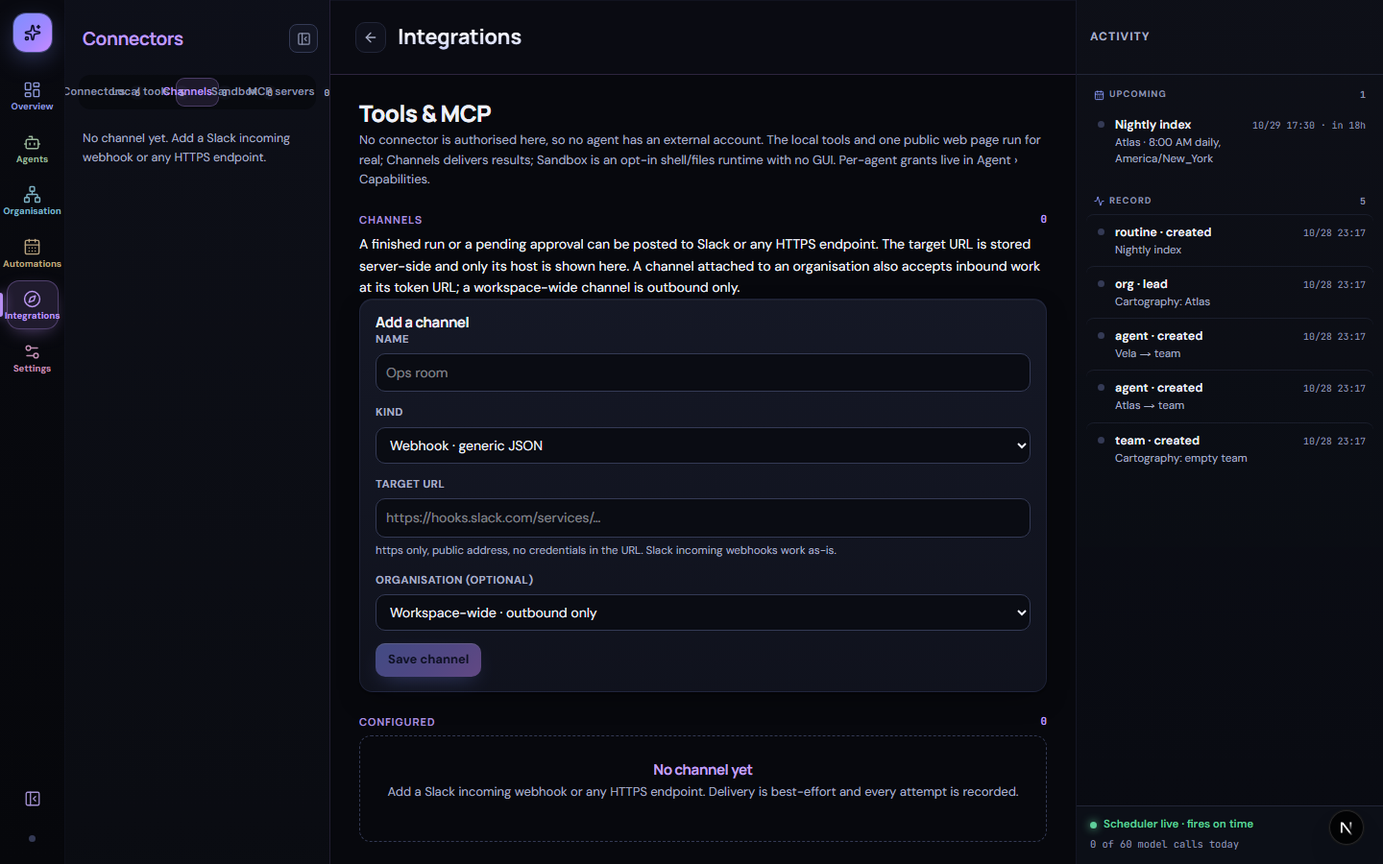
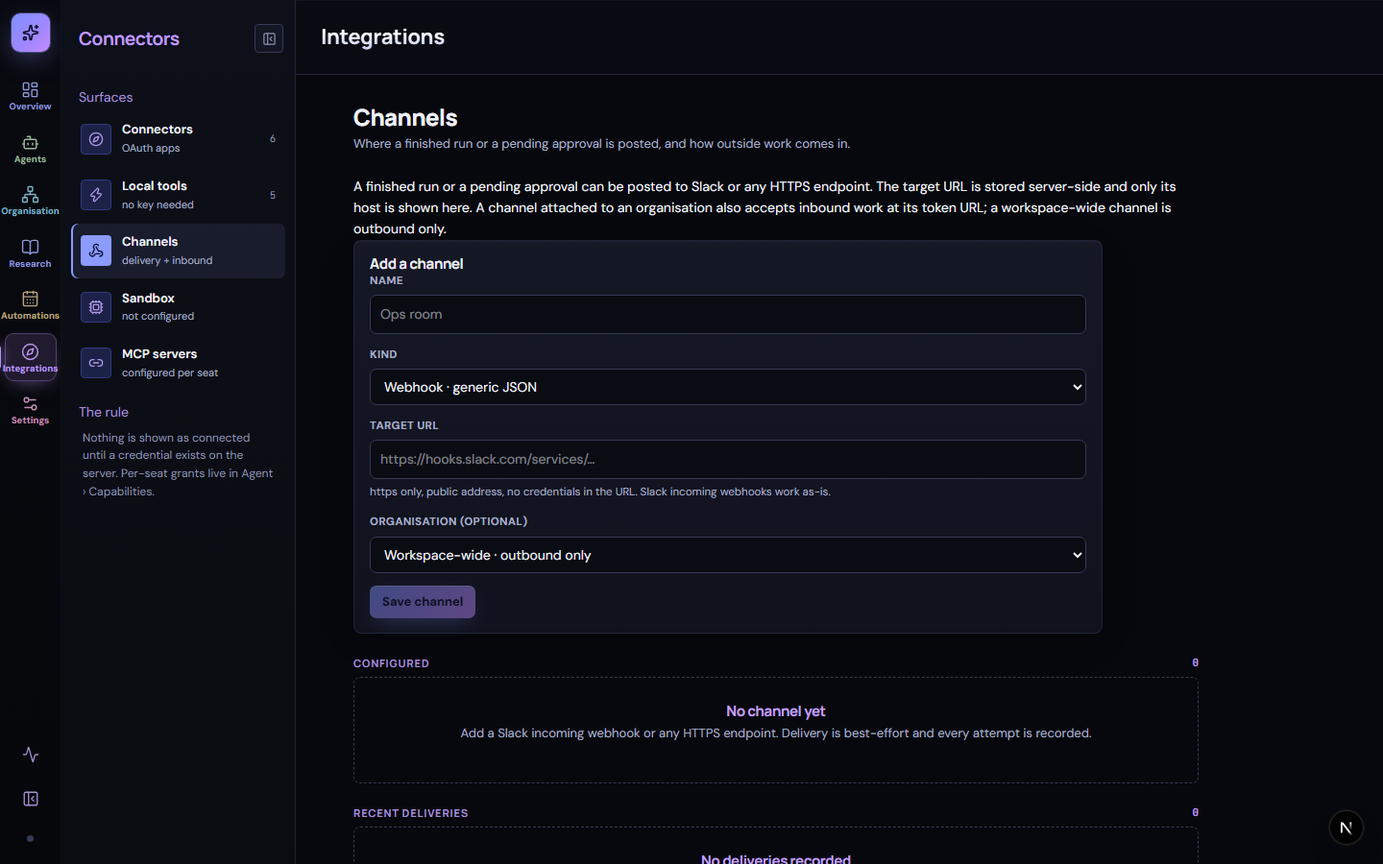
feat(ui): structural redesign of every room, not a token repaint
The bench read as broken: a dead void under sparse threads, tabs wrapping to
two rows, one shared glyph on every seat, rainbow 9.5px rail labels, and the
same room title printed three times. This pass fixes the layout and the
duplicated marks rather than repainting hue.

- connectors become one hairline list; local tools and runs keep row rhythm
- tabs forced to a single row; rail neutral with one room-hue mark per room
- Research gains its own mint so no two rooms share a rail colour
- gradient text-clip and the retired kicker device removed from headings
- Integrations panel retitled Surfaces; Automations/Settings/Research pane
  heads no longer repeat the sheet-bar room title
- FaceIcon falls back to a name monogram instead of a shared Sparkles
- sparse threads rise from the composer so the void is headroom, not a hole
- contrast, radii (6/8/12), columns (76/252/fluid/312) and gutter retuned

identity.test.ts still parses the live stylesheet and passes: 284/284 tests,
tsc --noEmit, next typegen, production build and /api/health all green.
Before/after captures for every room live in .impeccable/shots; DESIGN.md and
D-45 re-synced to the built world.

diff --git a/src/app/globals.css b/src/app/globals.css
@@ -14,14 +14,14 @@
   --raised: #1e2232;    /* hover, selected, tabs track */
   --sunken: #0a0c13;    /* inputs, code, recessed wells */
 
-  /* text */
-  --ink: #eef0f8;
-  --ink-2: #a8aec6;
-  --ink-3: #8b92ad;     /* tuned to clear 4.5:1 on --raised, the lightest surface it lands on */
+  /* text — lifted for legibility on the graphite ramp */
+  --ink: #f4f6fc;
+  --ink-2: #bfc7d8;
+  --ink-3: #9ba4bb;     /* clears 4.5:1 on --raised, the lightest surface it lands on */
 
-  /* hairlines */
-  --rule: #222638;
-  --rule-2: #343a55;
+  /* hairlines — visible structure, not invisible seams */
+  --rule: #2a3040;
+  --rule-2: #3d4560;
 
   /* interaction — one accent, with its own dark-ground family */
   --azure: #8b9bff;
@@ -42,9 +42,9 @@
   /* the code well: the only recessed surface, deliberately darker than everything */
   --code-bg: #080a10; --code-line: #1f2335; --code-text: #dfe6ee; --code-lang: #7f8b99;
 
-  --r-sm: 4px; --r: 7px; --r-lg: 10px;
-  --rail-w: 64px; --panelw: 244px; --boardw: 300px;
-  --measure: 80ch; --gutter: 40px;
+  --r-sm: 6px; --r: 8px; --r-lg: 12px;
+  --rail-w: 76px; --panelw: 252px; --boardw: 312px;
+  --measure: 78ch; --gutter: 32px;
   --shadow-lift: 0 30px 80px rgba(2, 3, 12, .7), 0 0 0 1px rgb(var(--azure-rgb) / .08);
   --ease: cubic-bezier(.22, .68, .31, 1);
 }
@@ -88,11 +88,11 @@ textarea, input { caret-color: var(--azure); }
 .rail-logo:hover { transform: scale(1.05); background: var(--azure-bright); }
 .rail-items { display: flex; flex-direction: column; gap: 4px; flex: 1 1 auto; width: 100%; align-items: center; overflow-y: auto; scrollbar-width: none; }
 .rail-items::-webkit-scrollbar { display: none; }
-.rail-btn { position: relative; display: flex; flex-direction: column; align-items: center; justify-content: center; gap: 4px; width: 54px; padding: 10px 0 8px; border-radius: var(--r); color: var(--ink-3); transition: background .15s var(--ease), color .15s var(--ease); }
-.rail-btn:hover { background: #171b2a; color: var(--ink); }
-.rail-btn.on { background: var(--azure-wash); color: var(--azure-bright); }
-.rail-btn.on::before { content: ""; position: absolute; left: -7px; top: 13px; bottom: 13px; width: 3px; border-radius: 0 3px 3px 0; background: var(--azure); }
-.rail-label { font-size: 9.5px; font-weight: 700; line-height: 1; }
+.rail-btn { position: relative; display: flex; flex-direction: column; align-items: center; justify-content: center; gap: 5px; width: 64px; padding: 10px 0 9px; border-radius: var(--r); color: var(--ink-3); transition: background .15s var(--ease), color .15s var(--ease); }
+.rail-btn:hover { background: var(--raised); color: var(--ink); }
+.rail-btn.on { background: var(--azure-wash); color: var(--ink); }
+.rail-btn.on::before { content: ""; position: absolute; left: -6px; top: 12px; bottom: 12px; width: 3px; border-radius: 0 3px 3px 0; background: var(--sec, var(--azure)); }
+.rail-label { font-size: 10.5px; font-weight: 600; line-height: 1; letter-spacing: .01em; color: inherit; }
 .rail-badge { position: absolute; top: 4px; right: 6px; min-width: 16px; height: 16px; padding: 0 4px; border-radius: 99px; background: var(--waiting); color: #17140d; font-style: normal; font-size: 9px; font-weight: 800; display: grid; place-items: center; }
 .rail-foot { display: flex; flex-direction: column; align-items: center; gap: 6px; width: 100%; }
 .rail-foot .rail-btn { padding: 11px 0; }
@@ -109,8 +109,8 @@ textarea, input { caret-color: var(--azure); }
 .sp-icon { display: grid; place-items: center; width: 30px; height: 30px; flex: 0 0 auto; border-radius: var(--r-sm); color: var(--ink-2); border: 1px solid var(--rule); }
 .sp-icon:hover { background: var(--raised); color: var(--ink); border-color: var(--rule-2); }
 .sp-collapse { border-color: transparent; color: var(--ink-3); }
-.sp-tabs { display: flex; flex-wrap: wrap; gap: 3px; margin: 0 12px 10px; padding: 3px; border-radius: var(--r); background: var(--sunken); flex: 0 0 auto; }
-.sp-tabs button { flex: 1 1 auto; min-width: 72px; display: inline-flex; align-items: center; justify-content: center; gap: 5px; padding: 6px 8px; border-radius: var(--r-sm); font-size: 11.5px; font-weight: 600; color: var(--ink-3); white-space: nowrap; }
+.sp-tabs { display: flex; flex-wrap: nowrap; gap: 3px; margin: 0 12px 10px; padding: 3px; border-radius: var(--r); background: var(--sunken); flex: 0 0 auto; }
+.sp-tabs button { flex: 1 1 0; min-width: 0; display: inline-flex; align-items: center; justify-content: center; gap: 5px; padding: 6px 6px; border-radius: var(--r-sm); font-size: 11.5px; font-weight: 600; color: var(--ink-3); white-space: nowrap; overflow: hidden; }
 .sp-tabs button:hover { color: var(--ink); }
 .sp-tabs button.on { background: var(--raised); color: var(--ink); }
 .sp-tabs span { font-family: var(--font-mono), monospace; font-size: 9.5px; padding: 0 5px; border-radius: 99px; background: var(--sheet); color: var(--ink-2); }
@@ -204,9 +204,13 @@ button.node:hover { background: #1a1e2d; }
 .fact.live .fact-dot { background: var(--ran); }
 
 .sheet-body { flex: 1 1 auto; min-height: 0; overflow-y: auto; position: relative; background: var(--sheet); }
+/* A sparse thread rises from the composer instead of leaving a dead void under two messages.
+   Scoped with :has so pane/overview bodies keep normal block flow. */
+.sheet-body:has(> .thread) { display: flex; flex-direction: column; }
+.sheet-body > .thread { margin-top: auto; flex-shrink: 0; }
 
 /* thread */
-.thread { max-width: 960px; margin: 0 auto; padding: 22px var(--gutter) 8px calc(var(--gutter) + 6px); }
+.thread { max-width: 1040px; margin: 0 auto; padding: 22px var(--gutter) 8px calc(var(--gutter) + 6px); }
 .thread > div { display: contents; }
 .rule-day { display: flex; align-items: center; gap: 12px; margin: 24px 0 6px; }
 .rule-day span { font-size: 10.5px; font-weight: 700; letter-spacing: .08em; text-transform: uppercase; color: var(--ink-3); }
@@ -219,6 +223,7 @@ button.node:hover { background: #1a1e2d; }
 .entry + .entry { border-top: 1px solid var(--rule); }
 .entry-main { min-width: 0; }
 .entry-face { display: grid; place-items: center; width: 30px; height: 30px; border-radius: var(--r-sm); border: 1px solid var(--rule-2); background: var(--card); color: var(--ink-2); flex: 0 0 auto; }
+.face-mono { font-family: var(--font-display), sans-serif; font-weight: 800; line-height: 1; letter-spacing: -.02em; }
 .entry-assistant .entry-face { background: var(--h-wash); border-color: var(--h-line); color: var(--h-ink); }
 .entry-head { display: flex; align-items: baseline; flex-wrap: wrap; gap: 8px; margin-bottom: 2px; }
 .entry-head strong { font-size: 13px; font-weight: 700; }
@@ -421,8 +426,8 @@ button.bd-row:hover { background: #1a1e2d; }
 .board-usage { font-size: 10.5px; color: var(--ink-3); }
 
 /* ── panes ─────────────────────────────────────────────────────────────── */
-.pane { max-width: 1080px; margin: 0 auto; padding: 30px 34px 48px; }
-.pane .stack { max-width: 780px; }
+.pane { max-width: 1240px; margin: 0 auto; padding: 30px 34px 48px; }
+.pane .stack { max-width: 860px; }
 .org-strip { display: flex; flex-wrap: wrap; gap: 6px 22px; margin: 4px 0 18px; padding: 11px 2px 12px; border-top: 1px solid var(--rule); border-bottom: 1px solid var(--rule); color: var(--ink-2); font-size: 12.5px; }
 .org-strip b { color: var(--ink); font-weight: 700; margin-right: 4px; }
 .pane-head { display: flex; align-items: flex-end; gap: 14px; margin-bottom: 22px; }
@@ -433,14 +438,17 @@ button.bd-row:hover { background: #1a1e2d; }
 .rows { border: 1px solid var(--rule); border-radius: var(--r); background: var(--card); overflow: hidden; }
 .pane-lede { max-width: 74ch; margin: 0 0 22px; font-size: 13px; line-height: 1.6; color: var(--ink-2); }
 .tool-surface { max-width: 880px; }
-.connector-grid { display: grid; grid-template-columns: repeat(auto-fill, minmax(300px, 1fr)); gap: 14px; }
-.connector-card { display: flex; flex-direction: column; gap: 10px; padding: 16px 18px 14px; border: 1px solid var(--rule); border-radius: var(--r); background: var(--card); }
-.connector-card header { display: flex; align-items: center; gap: 10px; }
-.connector-card h3 { margin: 0; font-size: 15px; }
-.connector-card header em { display: block; font-style: normal; font-size: 10.5px; letter-spacing: .08em; text-transform: uppercase; color: var(--ink-3); }
-.connector-card p { margin: 0; font-size: 13px; line-height: 1.55; color: var(--ink-2); }
-.connector-card footer { margin-top: auto; padding-top: 10px; border-top: 1px solid var(--rule); font-size: 12px; color: var(--ink-3); }
-.connector-card .chip { margin-left: auto; }
+.connector-grid { display: flex; flex-direction: column; border: 1px solid var(--rule); border-radius: var(--r); background: var(--card); overflow: hidden; }
+.connector-card { display: grid; grid-template-columns: 34px minmax(0, 1fr) auto; align-items: center; gap: 3px 14px; padding: 13px 16px; }
+.connector-card + .connector-card { border-top: 1px solid var(--rule); }
+.connector-card header { display: contents; }
+.connector-card .row-face { grid-column: 1; grid-row: 1 / span 2; align-self: center; width: 34px; height: 34px; }
+.connector-card header > div { grid-column: 2; grid-row: 1; display: flex; align-items: baseline; gap: 9px; min-width: 0; }
+.connector-card h3 { margin: 0; font-size: 14px; }
+.connector-card header em { font-style: normal; font-size: 10.5px; letter-spacing: .06em; text-transform: uppercase; color: var(--ink-3); }
+.connector-card p { margin: 0; font-size: 12.5px; line-height: 1.5; color: var(--ink-2); grid-column: 2; grid-row: 2; }
+.connector-card footer { display: none; }
+.connector-card .chip { grid-column: 3; grid-row: 1; margin-left: 0; }
 .row { display: flex; align-items: center; gap: 12px; width: 100%; text-align: left; padding: 12px 14px; }
 .row + .row { border-top: 1px solid var(--rule); }
 button.row:hover { background: #232842; }
@@ -712,13 +720,12 @@ body { background: var(--void); -webkit-font-smoothing: antialiased; text-render
 /* The stage breathes the open room's hue: --sec is set on .workbench, so each section's
    aurora is its own colour. Room paint marks where you are; buttons stay azure. */
 .workbench { background:
-  radial-gradient(1000px 560px at 78% -8%, color-mix(in srgb, var(--sec) 18%, rgb(var(--indigo-rgb) / .14)), transparent 62%),
-  radial-gradient(760px 520px at 4% 110%, color-mix(in srgb, var(--sec) 10%, rgb(var(--violet-rgb) / .11)), transparent 62%),
-  radial-gradient(560px 380px at 50% 46%, color-mix(in srgb, var(--sec) 6%, rgb(94, 200, 230 / .045)), transparent 70%),
+  radial-gradient(1000px 560px at 78% -8%, color-mix(in srgb, var(--sec) 9%, rgb(var(--indigo-rgb) / .07)), transparent 62%),
+  radial-gradient(760px 520px at 4% 110%, color-mix(in srgb, var(--sec) 5%, rgb(var(--violet-rgb) / .05)), transparent 62%),
   var(--sheet); }
 .sheet, .sheet-body { background: transparent; }
 .sheet-bar { background: rgba(12, 14, 21, .66); backdrop-filter: blur(18px) saturate(1.3); -webkit-backdrop-filter: blur(18px) saturate(1.3); border-bottom-color: rgb(var(--azure-rgb) / .12); box-shadow: inset 0 1px 0 rgb(var(--azure-rgb) / .06); position: relative; z-index: 2; }
-.sheet-bar h1, .ident-main h1 { background: linear-gradient(180deg, #fff 30%, #c6cdf5); -webkit-background-clip: text; background-clip: text; -webkit-text-fill-color: transparent; }
+.sheet-bar h1, .ident-main h1 { color: var(--ink); }
 .page-heading h1 { font-size: 22px; }
 
 /* rail */
@@ -850,7 +857,6 @@ button.row:hover, .row:hover { background: rgb(var(--azure-rgb) / .045); }
 .ao-hero.waiting { --tone: var(--waiting); --tone-wash: rgb(var(--waiting-rgb) / .14); border-color: var(--waiting-line); }
 .ao-hero.fault { --tone: var(--fault); --tone-wash: rgb(var(--fault-rgb) / .15); border-color: var(--fault-line); }
 .ao-hero-main { position: relative; flex: 1; min-width: 0; }
-.ao-kicker { display: block; font-size: 10px; font-weight: 800; letter-spacing: .14em; text-transform: uppercase; color: var(--tone, var(--ink-3)); margin-bottom: 4px; }
 .ao-hero h2 { font-size: 30px; font-weight: 800; letter-spacing: -.03em; margin-bottom: 6px; }
 .ao-hero p { margin: 0; max-width: 56ch; color: var(--ink-2); font-size: 14px; }
 .ao-hero-meta { display: flex; gap: 8px 18px; flex-wrap: wrap; margin-top: 12px; font-size: 12px; color: var(--ink-3); }
@@ -897,8 +903,7 @@ button.row:hover, .row:hover { background: rgb(var(--azure-rgb) / .045); }
 
 /* ── first-run welcome + overview scheduler chip ──────────────────────── */
 .welcome { position: relative; overflow: hidden; margin-bottom: 28px; padding: 34px 34px 30px; border-radius: 12px; border: 1px solid rgb(var(--azure-rgb) / .22); background: radial-gradient(620px 260px at 0% 0%, rgb(var(--indigo-rgb) / .22), transparent 70%), radial-gradient(520px 260px at 100% 100%, rgb(var(--violet-rgb) / .16), transparent 70%), linear-gradient(180deg, rgba(25, 29, 45, .95), rgba(13, 15, 24, .96)); box-shadow: var(--edge), var(--shadow-lift); }
-.welcome .ao-kicker { color: var(--azure-bright); }
-.welcome h2 { font-size: 34px; font-weight: 800; letter-spacing: -.035em; margin-bottom: 8px; background: linear-gradient(180deg, #fff 30%, #bfc8ff); -webkit-background-clip: text; background-clip: text; -webkit-text-fill-color: transparent; }
+.welcome h2 { font-size: 32px; font-weight: 800; letter-spacing: -.03em; margin-bottom: 8px; color: var(--ink); }
 .welcome > p { max-width: 54ch; margin: 0 0 22px; font-size: 15px; color: var(--ink-2); }
 .welcome-steps { display: grid; grid-template-columns: repeat(auto-fit, minmax(230px, 1fr)); gap: 12px; margin: 0 0 22px; padding: 0; list-style: none; }
 .welcome-steps button { display: flex; gap: 13px; align-items: flex-start; width: 100%; height: 100%; text-align: left; padding: 15px; border-radius: 8px; border: 1px solid rgb(var(--azure-rgb) / .14); background: rgba(8, 10, 16, .55); transition: transform .26s var(--ease), border-color .26s, background .26s, box-shadow .26s; }
@@ -918,10 +923,12 @@ button.row:hover, .row:hover { background: rgb(var(--azure-rgb) / .045); }
    room's colour). Identity tints stay three (state semantics keep theirs);
    colour here marks *where you are*, never *what happened*.
    ═══════════════════════════════════════════════════════════════════════════ */
-.rail-btn { color: color-mix(in srgb, var(--sec) 52%, var(--ink-3)); }
-.rail-btn:hover { background: color-mix(in srgb, var(--sec) 10%, transparent); color: color-mix(in srgb, var(--sec) 85%, white); }
-.rail-btn.on { background: color-mix(in srgb, var(--sec) 14%, transparent); box-shadow: inset 0 0 0 1px color-mix(in srgb, var(--sec) 32%, transparent), 0 6px 20px -8px color-mix(in srgb, var(--sec) 60%, transparent); color: color-mix(in srgb, var(--sec) 92%, white); }
-.rail-btn.on::before { background: var(--sec); box-shadow: 0 0 12px var(--sec); }
+/* Room hue marks only the active destination and the stage light; resting rail labels stay
+   neutral so the nav reads as one instrument, not a colour bar. */
+.rail-btn { color: var(--ink-3); }
+.rail-btn:hover { background: var(--raised); color: var(--ink); }
+.rail-btn.on { background: color-mix(in srgb, var(--sec) 14%, transparent); box-shadow: inset 0 0 0 1px color-mix(in srgb, var(--sec) 30%, transparent); color: var(--ink); }
+.rail-btn.on::before { background: var(--sec); box-shadow: 0 0 10px color-mix(in srgb, var(--sec) 60%, transparent); }
 .rail-btn.on .rail-label { color: inherit; }
 .iconrail { border-right-color: color-mix(in srgb, var(--azure) 6%, transparent); }
 .sidepanel { border-right-color: color-mix(in srgb, var(--sec) 14%, transparent); }

diff --git a/src/app/page.tsx b/src/app/page.tsx
@@ -120,7 +120,7 @@ const ReasoningFold = ({ text, model, streaming = false, truncated = false }: { 
     <div className="reasoning-body">{r.reasoning}</div>
   </details>;
 };
-const FaceIcon = ({ agent, size = 15 }: { agent: Pick<Agent, "avatar">; size?: number }) => { const F = faces[agent.avatar] ?? Sparkles; return <F size={size} strokeWidth={1.9} />; };
+const FaceIcon = ({ agent, size = 15 }: { agent: Pick<Agent, "avatar" | "name">; size?: number }) => { const F = faces[agent.avatar]; return F ? <F size={size} strokeWidth={1.9} /> : <span className="face-mono" style={{ fontSize: size * 0.62 }}>{agent.name.trim().charAt(0).toUpperCase() || "?"}</span>; };
 
 /** A proposed chart inside a card: rows, not openable seats — the seats do not exist yet. */
 function OrgBranch({ node, depth, onPick, current }: { node: OrgNode; depth: number; onPick?: (name: string) => void; current?: string }) {
@@ -667,7 +667,7 @@ export default function Workbench() {
   const realPending = pendingApprovals.filter(a => !a.detail.includes("Sample approval"));
   // The channel is reached from the bench, so the bench stays on screen while the channel is open.
   const section: Pane | "agents" = !pane || pane === "channel" ? "agents" : pane;
-  const panelTitle = { overview: "Shortcuts", agents: "The bench", org: "Reporting lines", scheduler: "Routines", tools: "Connectors", settings: "Workspace", research: "Projects" }[section];
+  const panelTitle = { overview: "Shortcuts", agents: "The bench", org: "Reporting lines", scheduler: "Routines", tools: "Surfaces", settings: "Workspace", research: "Projects" }[section];
   const agentMatch = (a: Agent) => (!filter || `${a.name} ${a.role}`.toLowerCase().includes(filter.toLowerCase())) && (agentTab === "all" || (agentTab === "active") === (a.status === "ACTIVE"));
   const activeTeam = data.teams.find(t => t.id === orgSel) ?? data.teams[0];
   const railItems: { id: Pane | "agents"; label: string; icon: LucideIcon; badge?: number }[] = [
@@ -865,7 +865,6 @@ export default function Workbench() {
         </div>}
 
       {section === "tools" && <div className="sp-scroll">
-        <div className="sp-group">Surfaces</div>
         {([
           { id: "connectors", label: "Connectors", note: "OAuth apps", icon: Compass, count: toolCatalog.length },
           { id: "local", label: "Local tools", note: "no key needed", icon: Zap, count: localToolSpecs.length },
@@ -954,7 +953,6 @@ export default function Workbench() {
         {pane === "overview" && <div className="overview-page">
           <div className="overview-content">
             {!data.agents.length && <section className="welcome" aria-labelledby="welcome-h">
-              <span className="ao-kicker">Welcome to Arova</span>
               <h2 id="welcome-h">Hire your first AI teammate</h2>
               <p>Give an agent a name and a job, talk to it, then put it on a schedule so the work happens while you are away.</p>
               <ol className="welcome-steps">
@@ -1236,7 +1234,7 @@ export default function Workbench() {
         </div>}
 
         {pane === "scheduler" && <div className="pane">
-          <div className="pane-head"><div><h1>Automations</h1><p>{data.scheduler.headline === "always-on" ? "Your scheduler is live: due routines fire on time, even with nobody in the app." : "Routines fire only while something is watching the clock. Open the 24/7 tab to make it permanent."}</p></div><div className="push" /><button className="primary" onClick={() => { setRoutineForm({ name: "", description: "", schedule: "Every day at 8:00 AM", agentId: agent?.id ?? "" }); setDialog("routine"); }}><Plus size={15} />New routine</button></div>
+          <div className="pane-head"><div><p>{data.scheduler.headline === "always-on" ? "Your scheduler is live: due routines fire on time, even with nobody in the app." : "Routines fire only while something is watching the clock. Open the 24/7 tab to make it permanent."}</p></div><div className="push" /><button className="primary" onClick={() => { setRoutineForm({ name: "", description: "", schedule: "Every day at 8:00 AM", agentId: agent?.id ?? "" }); setDialog("routine"); }}><Plus size={15} />New routine</button></div>
           <div className="pane-tabs"><Tabs value={autoTab} onChange={setAutoTab} items={[{ id: "routines", label: "Routines", count: data.routines.length }, { id: "runs", label: "Runs", count: data.runs.length }, { id: "evals", label: "Evals", count: data.evals.tasks.length }, { id: "always-on", label: "24/7 control room" }]} /></div>
           {autoTab === "always-on" && <AlwaysOn info={data.scheduler} origin={origin} routineCount={data.routines.length} enabledCount={data.routines.filter(r => r.enabled).length} onRefresh={() => { void load(); }}
             onPreset={schedule => { setRoutineForm({ name: "", description: "", schedule, agentId: agent?.id ?? data.agents[0]?.id ?? "" }); setDialog("routine"); }} />}
@@ -1436,7 +1434,7 @@ export default function Workbench() {
       />}
 
       {pane === "settings" && <div className="pane">
-          <div className="pane-head"><div><h1>Settings</h1><p>What this workspace is, and exactly what it cannot do.</p></div></div>
+          <div className="pane-head"><div><p>What this workspace is, and exactly what it cannot do.</p></div></div>
           <div className="stack">
             <div className={`block ${settingsTab !== "workspace" ? "is-hidden" : ""}`}>
               <h2>Workspace</h2><p>Your personal space. Identified by a browser cookie, not an account.</p>
@@ -1715,7 +1713,7 @@ function ResearchPane({ projects, sources, findings, agents, teams, projectId, o
   }, [project?.id]);
 
   if (!project) return <div className="pane">
-    <div className="pane-head"><div><h1>Research</h1><p>A project is a question, the sources behind it, and the findings that cite them.</p></div><div className="push" /><button className="primary" onClick={onNew}><Plus size={15} />New project</button></div>
+    <div className="pane-head"><div><p>A project is a question, the sources behind it, and the findings that cite them.</p></div><div className="push" /><button className="primary" onClick={onNew}><Plus size={15} />New project</button></div>
     <div className="blank"><h3>No research yet</h3><p>Start with a question. Sources can be fetched or pasted, and the brief stays copyable without a model.</p><button className="primary" onClick={onNew}><Plus size={14} />Create a project</button></div>
   </div>;
 

diff --git a/src/lib/identity.ts b/src/lib/identity.ts
@@ -46,6 +46,7 @@ export const SECTION_COLORS: Record<string, string> = {
   overview: "#8b9bff", /* azure — the default, so Overview keeps the interaction colour */
   agents: "#a8d98a",   /* sage — the bench is where identities live */
   org: "#70d2db",      /* aqua — the chart */
+  research: "#7fd6a4", /* mint — the reading room; a rail mark, never a status dot */
   scheduler: "#e6b455",/* amber — time; a rail mark, never a status dot */
   tools: "#b78ff2",    /* violet — integrations */
   settings: "#f08cb8", /* rose — the last room; rose on a rail is not a fault dot */

diff --git a/src/app/AlwaysOn.tsx b/src/app/AlwaysOn.tsx
@@ -75,7 +75,6 @@ export function AlwaysOn({ info, origin, routineCount, enabledCount, onPreset, o
     <section className={`ao-hero ${head.tone}`} aria-live="polite">
       <div className="ao-beacon" aria-hidden><i /><i /><i /><HeartPulse size={26} /></div>
       <div className="ao-hero-main">
-        <span className="ao-kicker">Scheduler status</span>
         <h2>{head.title}</h2>
         <p>{head.body}</p>
         <div className="ao-hero-meta">

diff --git a/DESIGN.md b/DESIGN.md
@@ -8,11 +8,11 @@ colors:
   sheet: "#0f111a"
   card: "#151824"
   raised: "#1e2232"
-  ink: "#eef0f8"
-  ink-2: "#a8aec6"
-  ink-3: "#8b92ad"
-  rule: "#222638"
-  rule-2: "#343a55"
+  ink: "#f4f6fc"
+  ink-2: "#bfc7d8"
+  ink-3: "#9ba4bb"
+  rule: "#2a3040"
+  rule-2: "#3d4560"
   azure: "#8b9bff"
   azure-bright: "#b4beff"
   azure-wash: "#1b2147"
@@ -59,6 +59,7 @@ colors:
   sec-overview: "#8b9bff"
   sec-agents: "#a8d98a"
   sec-org: "#70d2db"
+  sec-research: "#7fd6a4"
   sec-scheduler: "#e6b455"
   sec-tools: "#b78ff2"
   sec-settings: "#f08cb8"
@@ -89,7 +90,7 @@ typography:
     lineHeight: 1.62
     letterSpacing: "-.01em"
   # The enumerated ramp the built world actually uses. `chrome` is the half-stepped
-  # ladder a 276px panel and a 320px board are set in; the named roles above are prose.
+  # ladder a 252px panel and a 312px board are set in; the named roles above are prose.
   scale:
     chrome-9: "9px"
     chrome-95: "9.5px"
@@ -112,9 +113,9 @@ typography:
     pane-head: "24px"
     h1: "26px"
 rounded:
-  sm: "8px"
-  md: "12px"
-  lg: "16px"
+  sm: "6px"
+  md: "8px"
+  lg: "12px"
   pill: "99px"
   # The one-off ladder the built world uses beyond the tokens, enumerated the way
   # typography.scale is: a radius on this ladder is not drift.
@@ -130,7 +131,7 @@ rounded:
     dialog: "20px"
     hero: "24px"
 spacing:
-  gutter: "40px"
+  gutter: "32px"
 components:
   button-primary:
     background: "{colors.grad}"
@@ -219,7 +220,7 @@ Density is the aesthetic. This is a working tool read every day by one operator 
 - Green/amber/red exist only where a stored row produced them; a sample row wears idle grey, never the green of a real run.
 - Exactly three identity tints (sage/aqua/mauve), each proven 30° clear of the accent and of every state colour — and proven *against the live stylesheet*, because `identity.test.ts` parses `globals.css` for the values it measures.
 - DM Sans body, Manrope headings, JetBrains Mono reserved strictly for measurement.
-- Four fixed columns at wide (68 · 276 · fluid · 320), collapsing through two breakpoints; no section repeats the title of another.
+- Four fixed columns at wide (76 · 252 · fluid · 312), collapsing through two breakpoints; no section repeats the title of another.
 - Every row belongs to exactly one subject — a seat's thread or an organisation's channel — and a channel post always names the seat that wrote it, in that seat's tile and tint.
 
 ## Colors
@@ -309,7 +310,7 @@ These exist for one specific job. **Rule: a second use promotes the value into `
 - **Reading** (DM Sans, 15px/1.7, max-width `80ch` via `--measure`): thread message text, channel posts and composer input.
 - **Label** (DM Sans 700, ~11px, `.08em`, uppercase): group labels, section headings inside panes, chips — the only uppercase device, and it is never a kicker placed *above* a heading.
 - **Mono** (JetBrains Mono, tabular-nums, `-.01em`): numbers, token counts, timestamps, model ids, code, schedule lines.
-- **The chrome ladder** (13.5 → 9px, half-stepped: 13.5, 13, 12.5, 12, 11.5, 11, 10.5, 10, 9.5, 9): the working text of a 276px panel and a 320px board. It is half-stepped deliberately — one full pixel is the difference between a row that holds its two-line label and one that wraps. A new size outside this ladder and the prose steps above is drift; a new size *on* it is not.
+- **The chrome ladder** (13.5 → 9px, half-stepped: 13.5, 13, 12.5, 12, 11.5, 11, 10.5, 10, 9.5, 9): the working text of a 252px panel and a 312px board. It is half-stepped deliberately — one full pixel is the difference between a row that holds its two-line label and one that wraps. A new size outside this ladder and the prose steps above is drift; a new size *on* it is not.
 
 ### Named Rules
 **The Monospace-Means-Measurement Rule.** JetBrains Mono marks only measured data — a count, a time, a token figure, a language tag. It never sets prose. `.num`, `time`, `.mono` exist for this and nothing else.
@@ -322,7 +323,7 @@ The bench is a grid defined once as `.workbench`: `64px` icon rail · `244px` se
 - **Breakpoint 860px:** the section panel becomes a full-width step (rail narrows to `60px`, `--gutter` tightens to 18px); the panel slides in as an overlay (`mpanel`); `.sheet-bar` compresses and `.facts` wrap to a third row. `.only-mobile` appears, `.only-wide` hides.
 - **600px:** agent grid and org stats drop to two columns; the create button collapses to a bare icon.
 
-Visibility helpers are exactly three: `.only-narrow`, `.only-wide`, `.only-mobile`. Rhythm uses `--gutter` (40px, tightening to 18px on mobile) as the sheet's horizontal step and `--measure` (80ch) as the reading column. Thread maxes at 1120px; panes at 1020px.
+Visibility helpers are exactly three: `.only-narrow`, `.only-wide`, `.only-mobile`. Rhythm uses `--gutter` (32px, tightening to 18px on mobile) as the sheet's horizontal step and `--measure` (78ch) as the reading column. Thread maxes at 1040px and rises from the composer when sparse; panes at 1240px.
 
 **The Naming Rule.** The section panel is titled by **what it holds** (Shortcuts, The bench, Routines) while the work surface carries the **section title** (Overview, Organisation, Automations, Integrations, Settings, or the agent's name). Neither repeats the other; a heading is never duplicated in two columns.
 

diff --git a/context/decisions.md b/context/decisions.md
@@ -485,3 +485,38 @@ Why not B: the same source is reused across questions and must remain numbered a
 Design: `research_sources` uses the partial unique `(project_id, url) WHERE url <> ''` so pasted notes are unlimited but a URL is saved once. Fetches go through `webFetch` unchanged, so https-only, public-address and body-cap rules apply. `researchBrief` numbers pinned sources first and resolves finding ids to those numbers; the client copies it. Findings validate source ids against their own project in SQL before insert.
 
 Cost: three tables, eight actions, one pane. Reversibility: drop the tables and the rail entry. Evidence: 284/284 tests; `.impeccable/research-proof.mjs` passes live; Chrome sees the project and source.
+
+---
+
+## D-45 — Whole-bench structural redesign (2026-11-09)
+
+**Context.** The owner judged the whole UI "very, very bad" and asked for a redesign of every room,
+section and component — not a token polish. Captured before-shots (`.impeccable/shots/redesign-before-*.png`)
+named the concrete defects: a dead black void under a sparse thread, section tabs wrapping to two
+rows, one identical Sparkles glyph on every seat, 9.5px rainbow rail labels, a triple-duplicated
+Integrations heading, and six connector cards with ~60% dead space.
+
+**Decision.** A structural pass over `globals.css` plus the JSX that owns the duplicated marks:
+contrast lifted (`--ink/--ink-2/--ink-3`, `--rule/--rule-2`); radii settled at 6/8/12 and columns at
+76·252·fluid·312 with `--gutter` 32 and `--measure` 78ch; the rail goes neutral with one room-hue mark
+per room; tabs forced to a single row; connector cards become one hairline list (a row per surface,
+status right-aligned); gradient text-clip retired from `h1` and the welcome hero; the aurora reduced
+to two quiet radials; the retired `.ao-kicker` device deleted from the welcome and the control room;
+the Integrations panel retitled "Surfaces" so panel, sheet-bar and pane-head no longer repeat one
+word; `FaceIcon` falls back to a name monogram instead of a shared Sparkles; a seventh room hue
+(mint) added for Research so no two rooms share a rail colour; and a sparse thread now rises from the
+composer (`.sheet-body:has(> .thread)` flex + `margin-top:auto`) so the void sits above the day
+divider as headroom, not under the messages.
+
+**Why not a re-skin.** The defects were layout and duplicated marks, not hue; repainting tokens would
+have left the void, the wrapped tabs and the triple heading exactly where they were.
+
+**Constraints honoured.** `identity.test.ts` still parses the live `globals.css` and passes (284/284):
+three identity tints, dark glyphs, ink contrast and hue separation all unchanged. Room hues may reuse
+identity/state hues because a rail mark is never a status dot. No stored-row semantics touched.
+
+**Evidence.** `npx next typegen`, `tsc --noEmit`, `npm test` (284/284), `npm run build` and
+`GET /api/health` (200) all green on the working tree; after-shots
+(`.impeccable/shots/redesign-after-*.png`) show the hairline connector list, single-row tabs, neutral
+rail, distinct seat tiles and the composer-anchored thread. DESIGN.md frontmatter and layout prose
+re-synced to the built values in the same pass.
